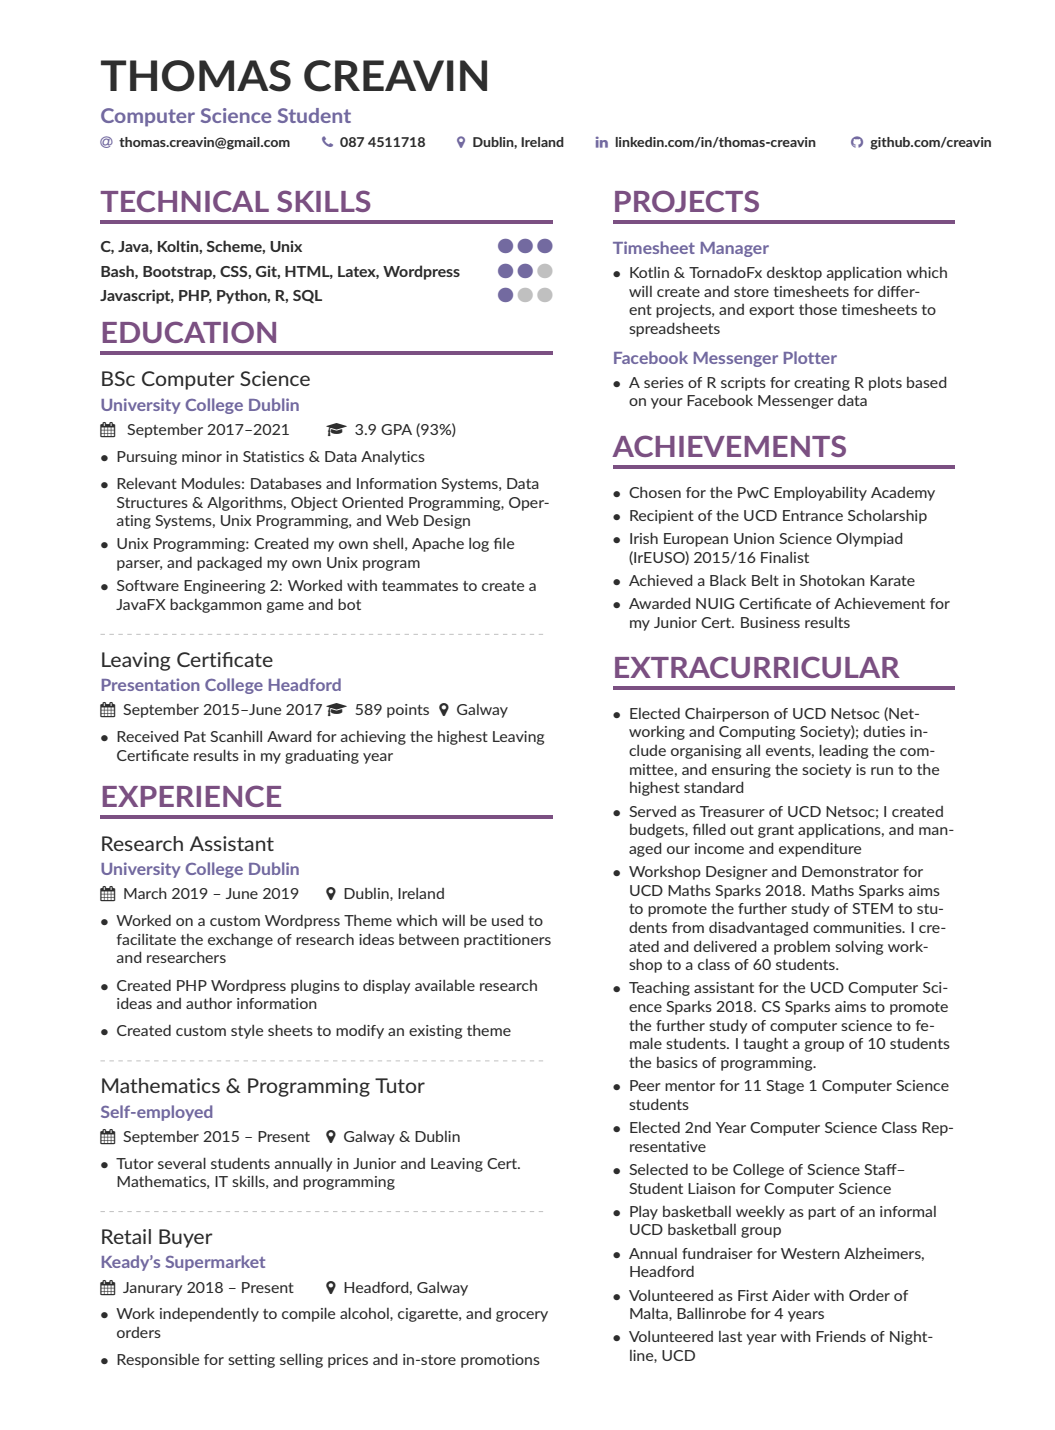
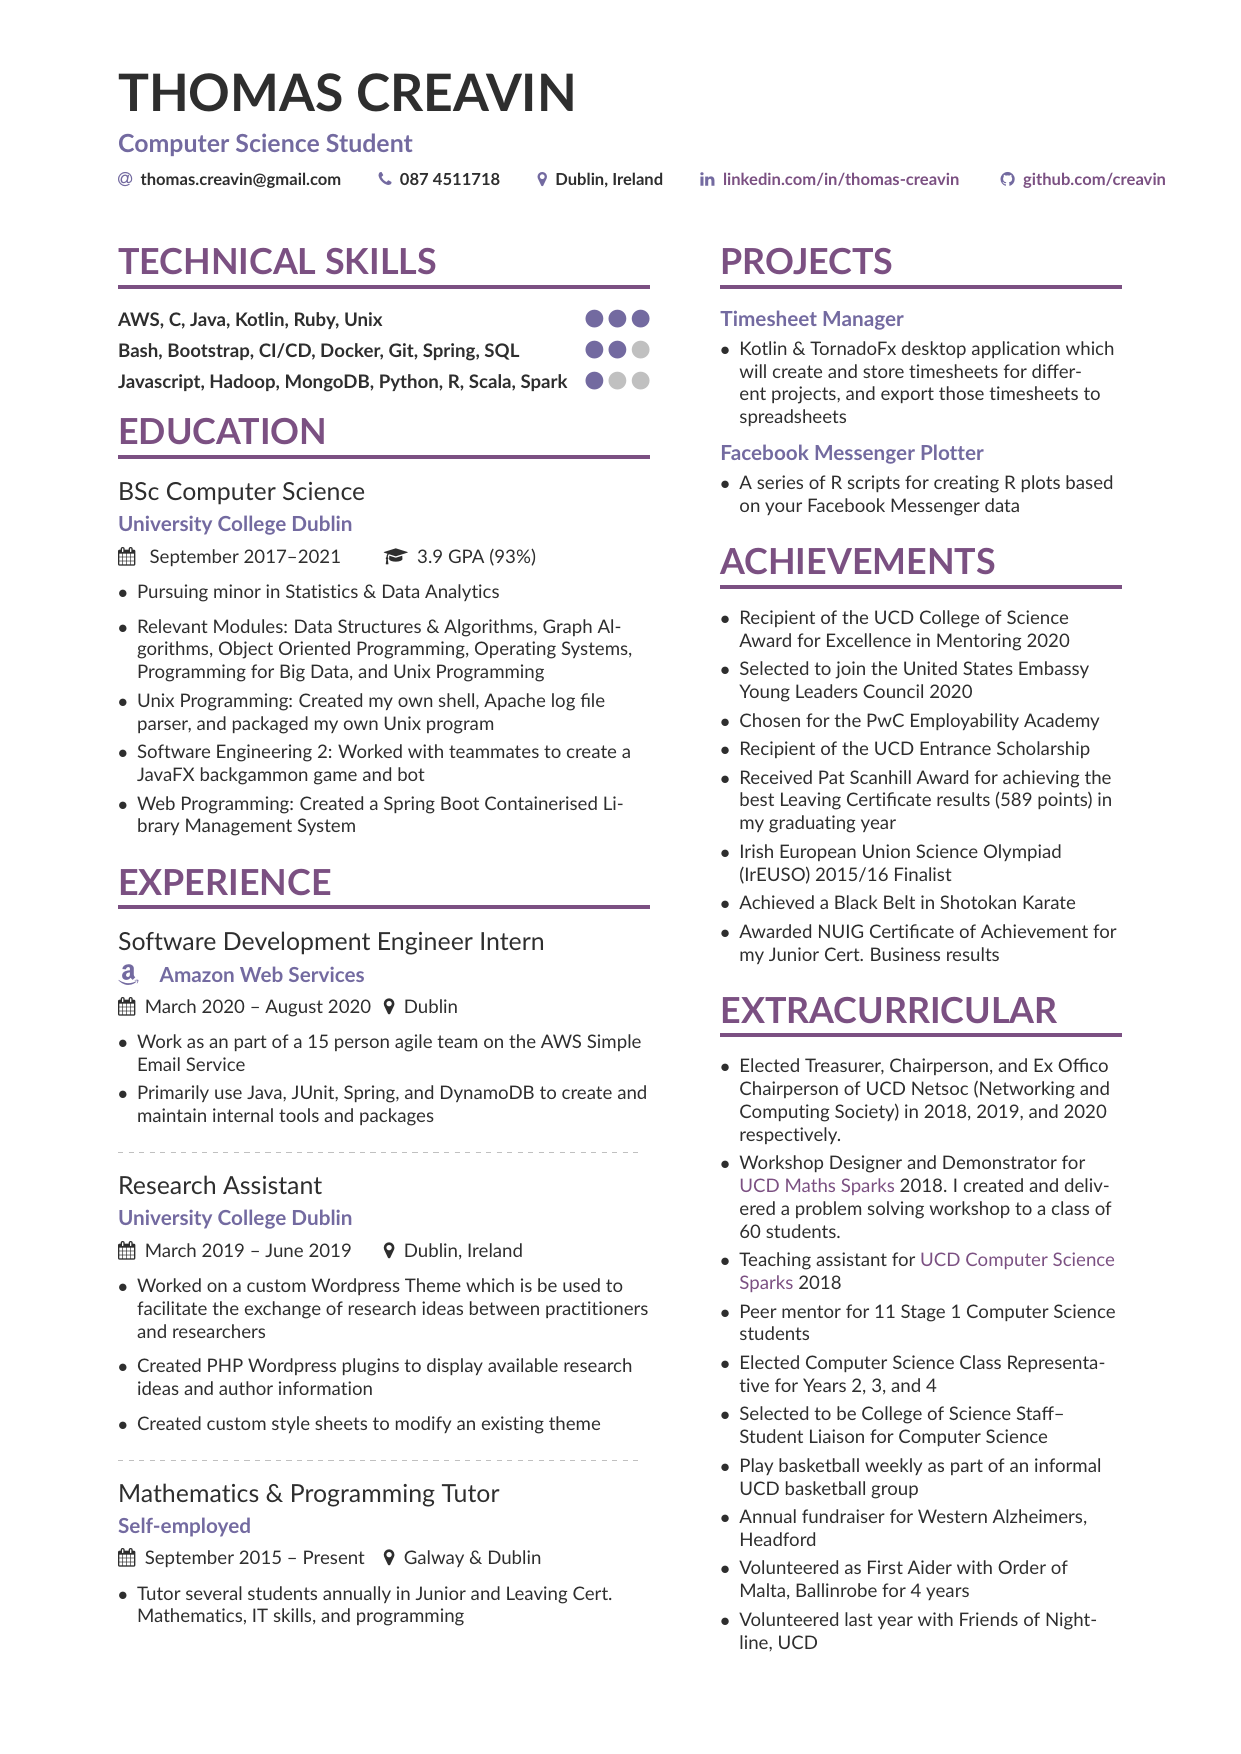
Add updated creds

diff --git a/main.tex b/main.tex
@@ -28,6 +28,8 @@
   \usepackage[default]{lato}
 \fi
 
+
+
 % Change the colours if you want to
 \definecolor{Purple}{HTML}{7b5082} 
 \definecolor{Violet}{HTML}{736aa0}
@@ -38,6 +40,14 @@
 \colorlet{accent}{Violet}
 \colorlet{emphasis}{SlateGrey}
 \colorlet{body}{LightGrey}
+
+% URL Style
+\hypersetup{hidelinks,
+breaklinks=true,
+colorlinks=true,
+linkcolor=Purple,
+urlcolor=Purple,
+}
 
 % Change the bullets for itemize and rating marker
 % for \cvskill if you want to
@@ -75,11 +85,11 @@
 %% \cvsection title in the "main" bar.
 \cvsection[page1sidebar]{TECHNICAL SKILLS}
 
-\cvskill{C, Java, Kotlin, Scheme, Unix}{3}
+\cvskill{AWS, C, Java, Kotlin, Ruby, Unix}{3}
 \smallskip
-\cvskill{Bash, Bootstrap, CSS, Git, Latex, Ruby, Wordpress}{2}
+\cvskill{Bash, Bootstrap, CI/CD, Docker, Git, Spring, SQL}{2}
 \smallskip
-\cvskill{Javascript, PHP, Python, R, SQL}{1}
+\cvskill{Javascript, Hadoop, MongoDB, Python, R, Scala, Spark}{1}
 % \divider
 %\cvskill{German}{3}
 
@@ -88,27 +98,25 @@
 \begin{itemize}
 \item Pursuing minor in Statistics \& Data Analytics
 \smallskip
-\item Relevant Modules: Databases and Information Systems, Data Structures \& Algorithms, Object Oriented Programming, Operating Systems, Unix Programming, and Web Design
+\item Relevant Modules: Data Structures \& Algorithms, Graph Algorithms, Object Oriented Programming, Operating Systems, Programming for Big Data, and Unix Programming 
 \item Unix Programming: Created my own shell, Apache log file parser, and packaged my own Unix program
 \item Software Engineering 2: Worked with teammates to create a JavaFX backgammon game and bot
+\item Web Programming: Created a Spring Boot Containerised Library Management System
 \end{itemize}
 %\smallskip
-\divider
-
-\cveventEducationLocation{Leaving Certificate}{Presentation College Headford}{September 2015--June 2017}{589 points}{Galway}
-\begin{itemize}
-\item Received Pat Scanhill Award for achieving the highest Leaving Certificate results in my graduating year
-\end{itemize}
-%\divider
 
 \cvsection{Experience}
 
-\cvevent{Software Development Engineer Intern}{Amazon}{March 2020 -- August 2020}{Dublin}
+\cvevent{Software Development Engineer Intern}{\faAmazon \quad Amazon Web Services}{March 2020 -- August 2020}{Dublin}
+\begin{itemize}
+    \item Work as an part of a 15 person agile team on the AWS Simple Email Service
+    \item Primarily use Java, JUnit, Spring, and DynamoDB to create and maintain internal tools and packages 
+\end{itemize}
 \divider
 
 \cvevent{Research Assistant}{University College Dublin}{March 2019 -- June 2019}{Dublin, Ireland}
 \begin{itemize}
-\item Worked on a custom Wordpress Theme which will be used to facilitate the exchange of research ideas between practitioners and researchers
+\item Worked on a custom Wordpress Theme which is be used to facilitate the exchange of research ideas between practitioners and researchers
 \smallskip
 \item Created PHP Wordpress plugins to display available research ideas and author information
 \smallskip

diff --git a/page1sidebar.tex b/page1sidebar.tex
@@ -11,8 +11,11 @@
 
 \cvsection{Achievements}
 \begin{itemize}
+\item Recipient of the UCD College of Science Award for Excellence in Mentoring 2020
+\item Selected to join the United States Embassy Young Leaders Council 2020
 \item Chosen for the PwC Employability Academy
 \item Recipient of the UCD Entrance Scholarship
+\item Received Pat Scanhill Award for achieving the best Leaving Certificate results (589 points) in my graduating year
 \item Irish European Union Science Olympiad (IrEUSO) 2015/16 Finalist
 \item Achieved a Black Belt in Shotokan Karate
 \item Awarded NUIG Certificate of Achievement for my Junior Cert. Business results
@@ -21,12 +24,11 @@
 
 \cvsection{Extracurricular}
 \begin{itemize}
-\item Elected Chairperson of UCD Netsoc (Networking and Computing Society); duties include organising all events, leading the committee, and ensuring the society is run to the highest standard
-\item Served as Treasurer of UCD Netsoc; I created budgets, filled out grant applications, and managed our income and expenditure
-\item Workshop Designer and Demonstrator for UCD Maths Sparks 2018. Maths Sparks aims to promote the further study of STEM to students from disadvantaged communities. I created and delivered a problem solving workshop to a class of 60 students.
-\item Teaching assistant for the UCD Computer Science Sparks 2018. CS Sparks aims to promote the further study of computer science to female students. I taught a group of 10 students the basics of programming.
+\item Elected Treasurer, Chairperson, and Ex Offico Chairperson of UCD Netsoc (Networking and Computing Society) in 2018, 2019, and 2020 respectively.
+\item Workshop Designer and Demonstrator for \hyperlink{https://www.ucd.ie/mathstat/mathsparks/}{UCD Maths Sparks} 2018. I created and delivered a problem solving workshop to a class of 60 students.
+\item Teaching assistant for \hyperlink{https://cssparks.ucd.ie/}{UCD Computer Science Sparks} 2018
 \item Peer mentor for 11 Stage 1 Computer Science students
-\item Elected 2nd Year Computer Science Class Representative
+\item Elected Computer Science Class Representative for Years 2, 3, and 4
 \item Selected to be College of Science Staff--Student Liaison for Computer Science
 \item Play basketball weekly as part of an informal UCD basketball group
 \item Annual fundraiser for Western Alzheimers, Headford
